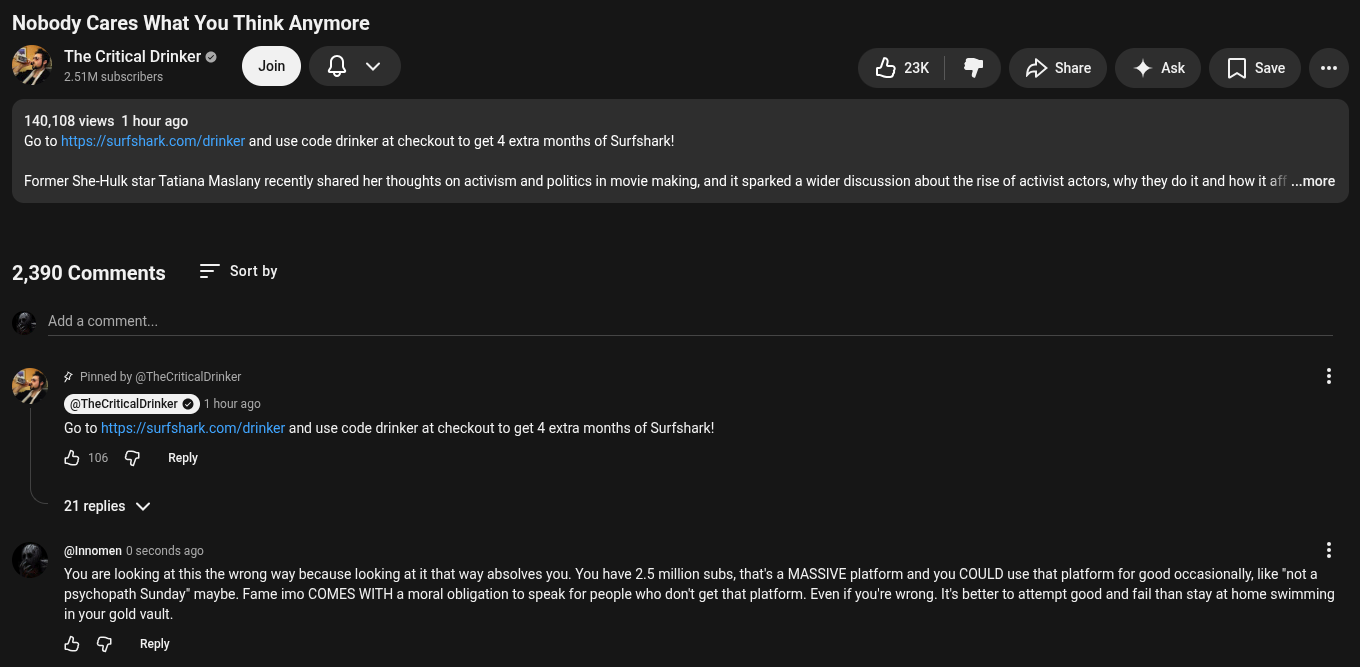
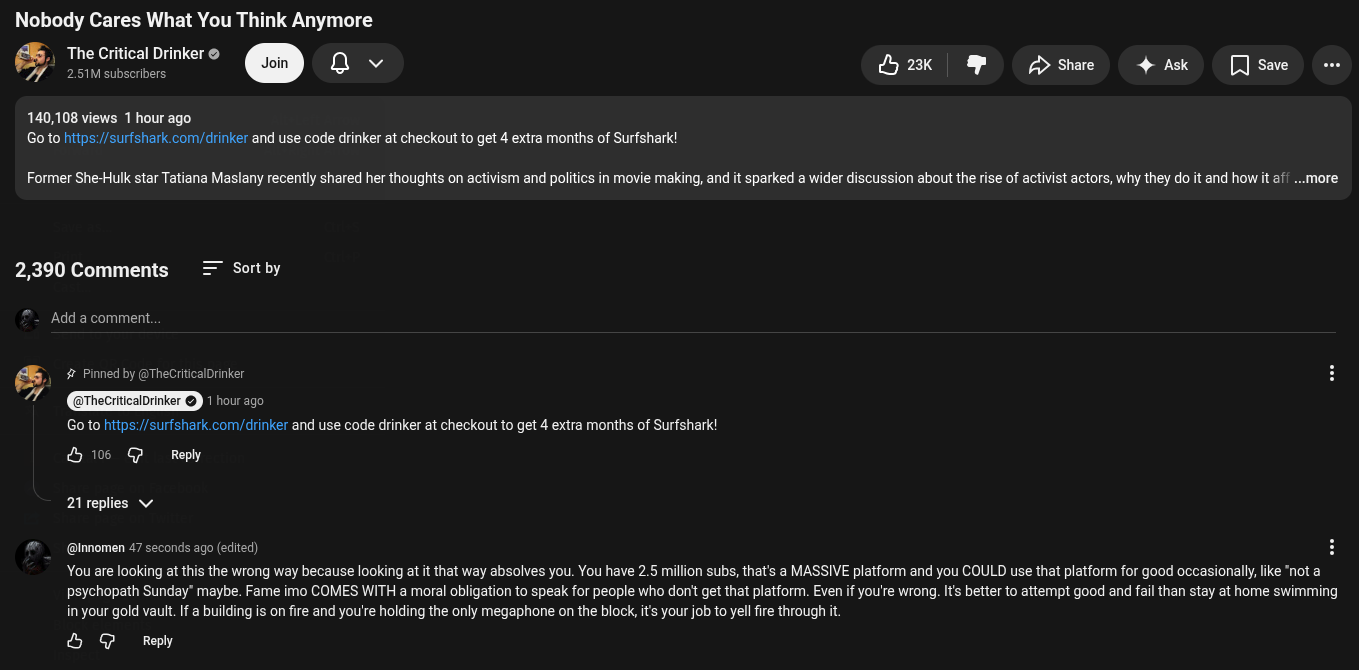
sync: 2 file change(s) 2026-09-28 14:02:23

diff --git a/ocr/Screenshot_20260928_140117.md b/ocr/Screenshot_20260928_140117.md
@@ -1,8 +1,8 @@
 ---
 type: public-take-ocr
 source_image: "../Screenshot_20260928_140117.png"
[1 lines of base64/hex data omitted]
-captured: "2026-09-28T14:01:30-05:00"
[1 lines of base64/hex data omitted]
+captured: "2026-09-28T14:02:17-05:00"
 ocr_engine: tesseract-5
 status: machine-transcribed
 tags: [my-takes, public-take, ocr]
@@ -16,31 +16,31 @@ tags: [my-takes, public-take, ocr]
 
 Nobody Cares What You Think Anymore
 The Critical Drinker
+@) S e orinker @ Q v 2k & Dshae 4 Ak [Jsae o
 
 140,108 views 1 hour ago
 Go to hitps://surfshark com/drinker and use code drinker at checkout to get 4 extra months of Surfshark!
 
-Former She-Hulk star Tatiana Maslany recently shared her thoughts on activism and politics in movie making, and it sparked a wider discussion about the rise of activist actors, why they o it and how it af' ..more
+Former She-Hulk star Tatiana Maslany recently shared her thoughts on activism and politics in movie making, and it sparked a wider discussion about the rise of activist actors, why they do it and how it af ..more
 
 2,390 Comments = Sortby
 
 Add a comment.
 
-# Pinned by @TheCriticalDrinker
+# Pinned by @TheCritcalDrinker
 
-TheCriticalDrinker © REIEES
+TheCriticalDrinker © RIS
 
 Go to hitps://surfshark.com/drinker and use code drinker at checkout to get 4 extra months of Surfshark!
 
-&6 @ Reply
+&6 @ Repy
 
 21 replies v/
 
-@innomen 0 seconds ago
+@innomen 47 seconds ago (edited)
 
 You are looking at this the wrong way because looking at it that way absolves you. You have 2.5 million subs, that's a MASSIVE platform and you COULD use that platform for good occasionally, ke ‘not a
-
 psychopath Sunday” maybe. Fame imo COMES WITH a moral obligation to speak for people who donit get that platform. Even if you're wrong. Its better to attempt good and fail than stay at home swimming
-in your gold vault
+in your gold vault. If a building is on fire and you're holding the only megaphone on the block, it your job to yell ire through it.
 
 & G Reply
